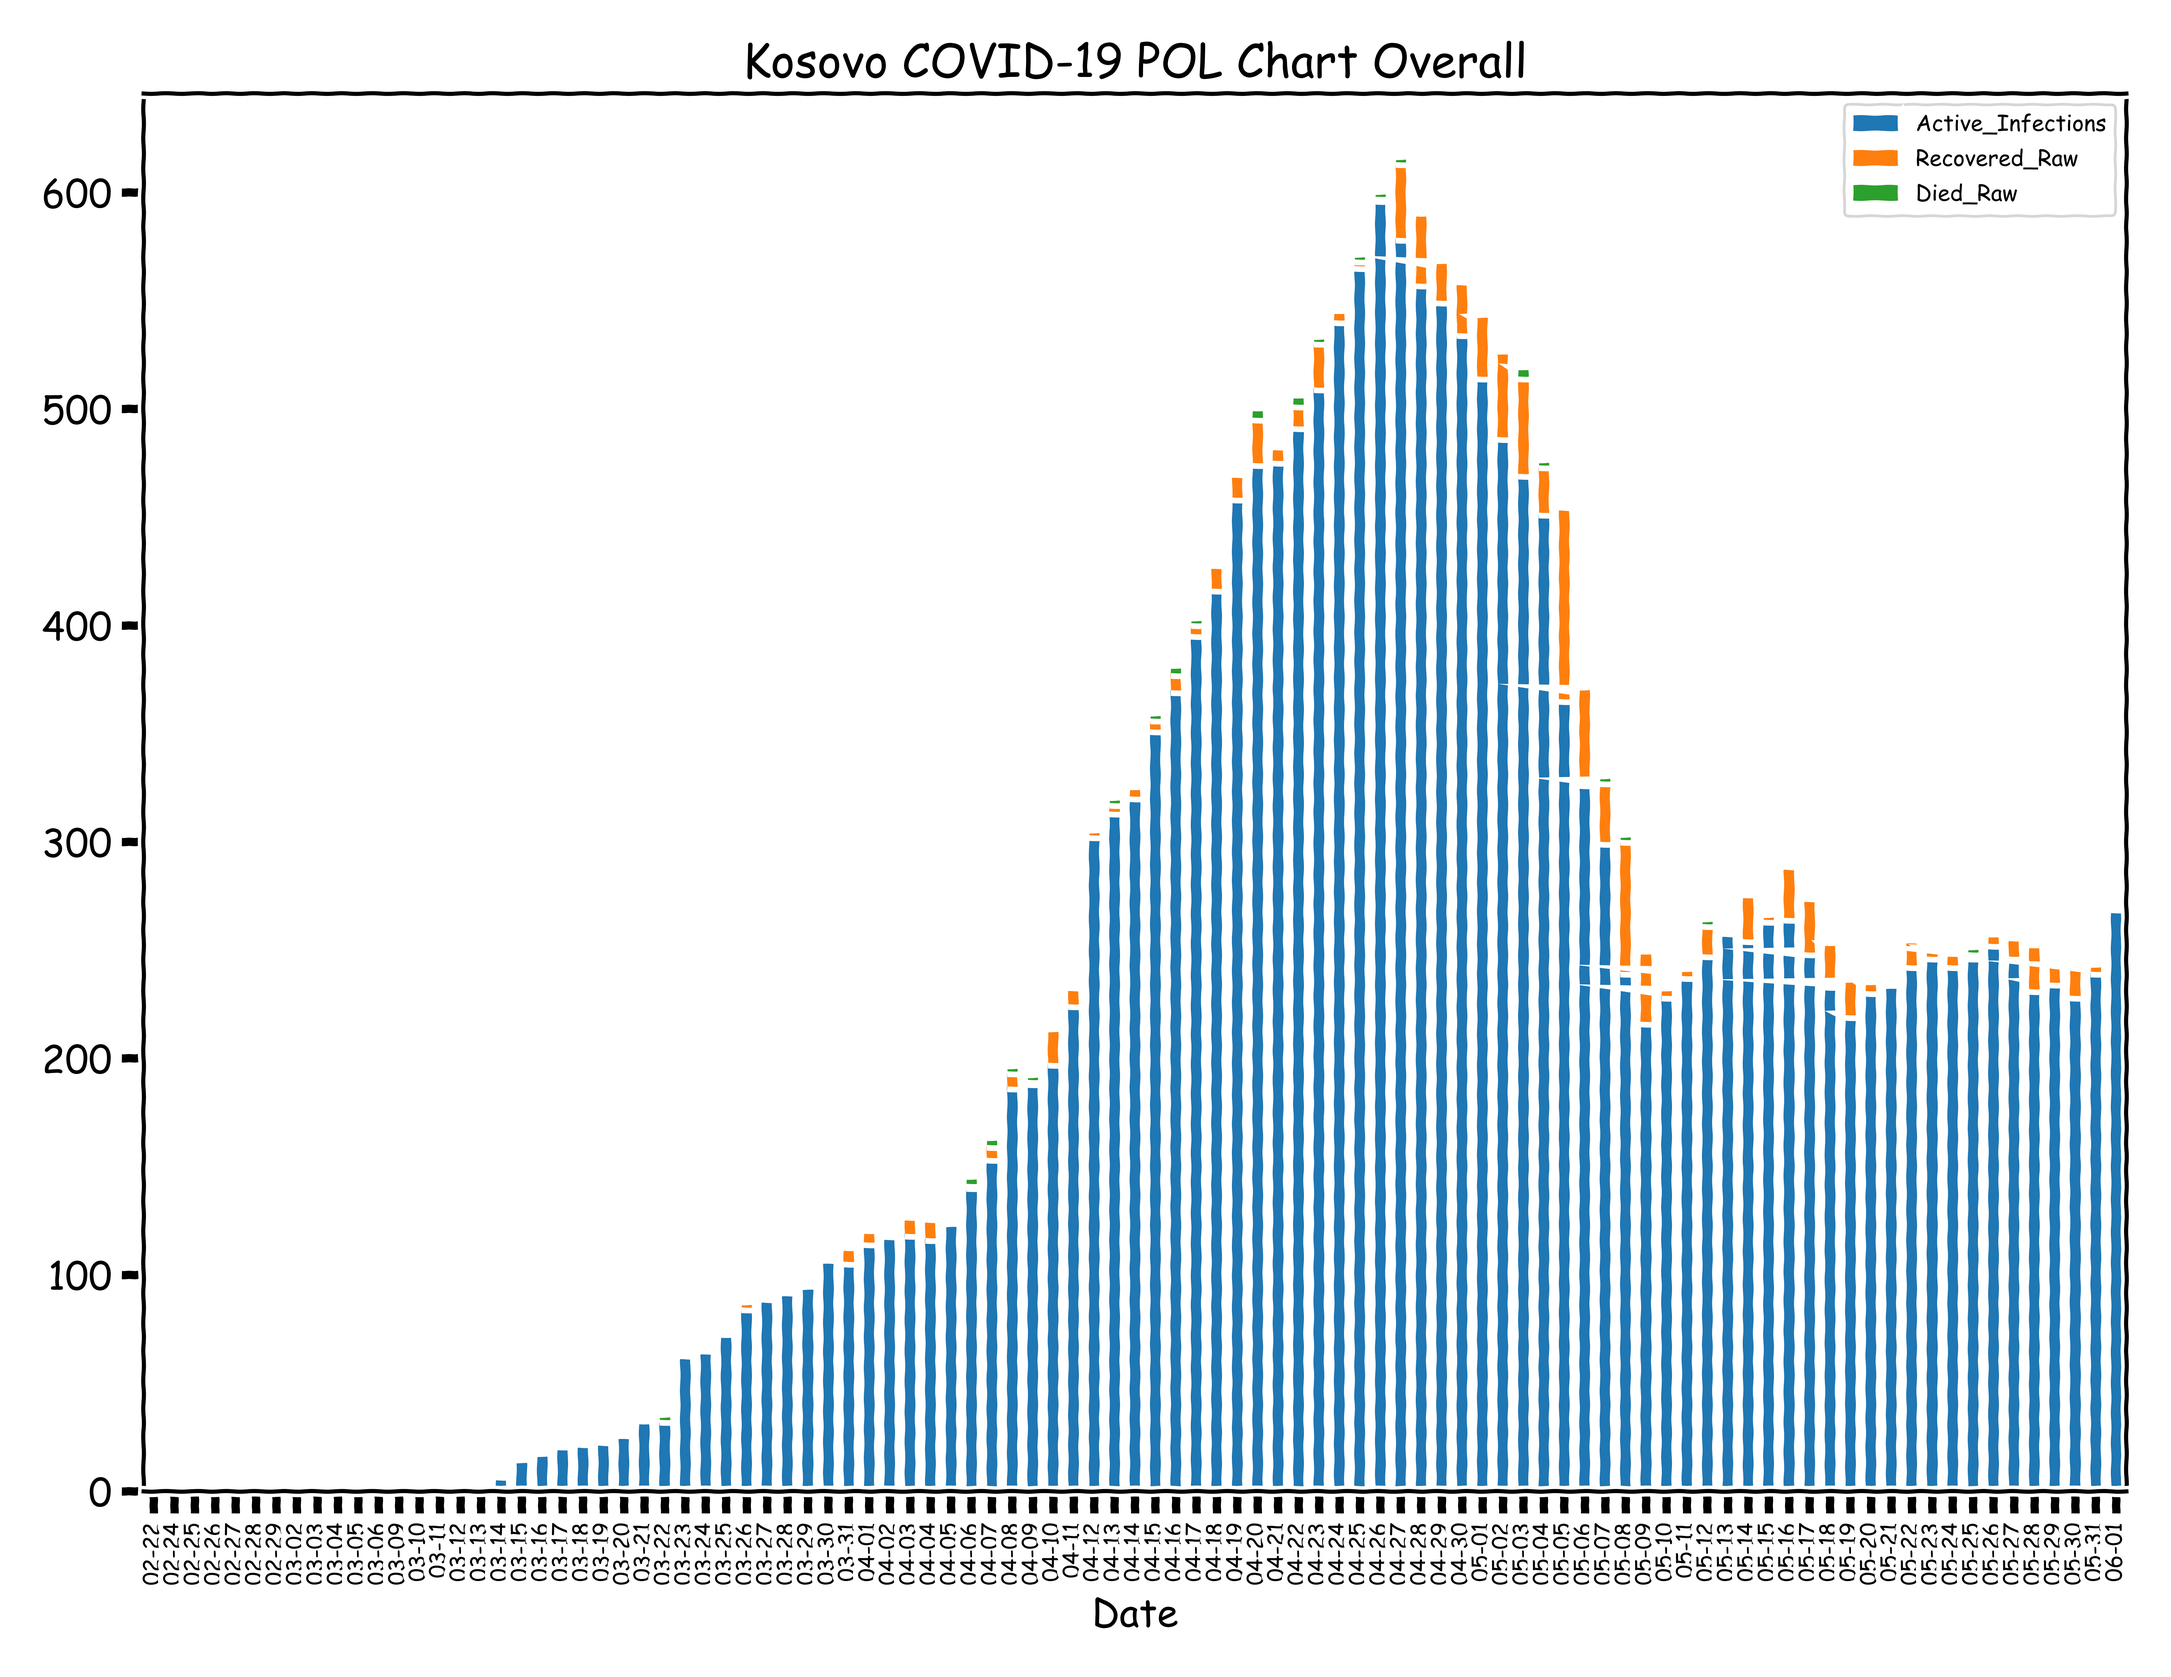
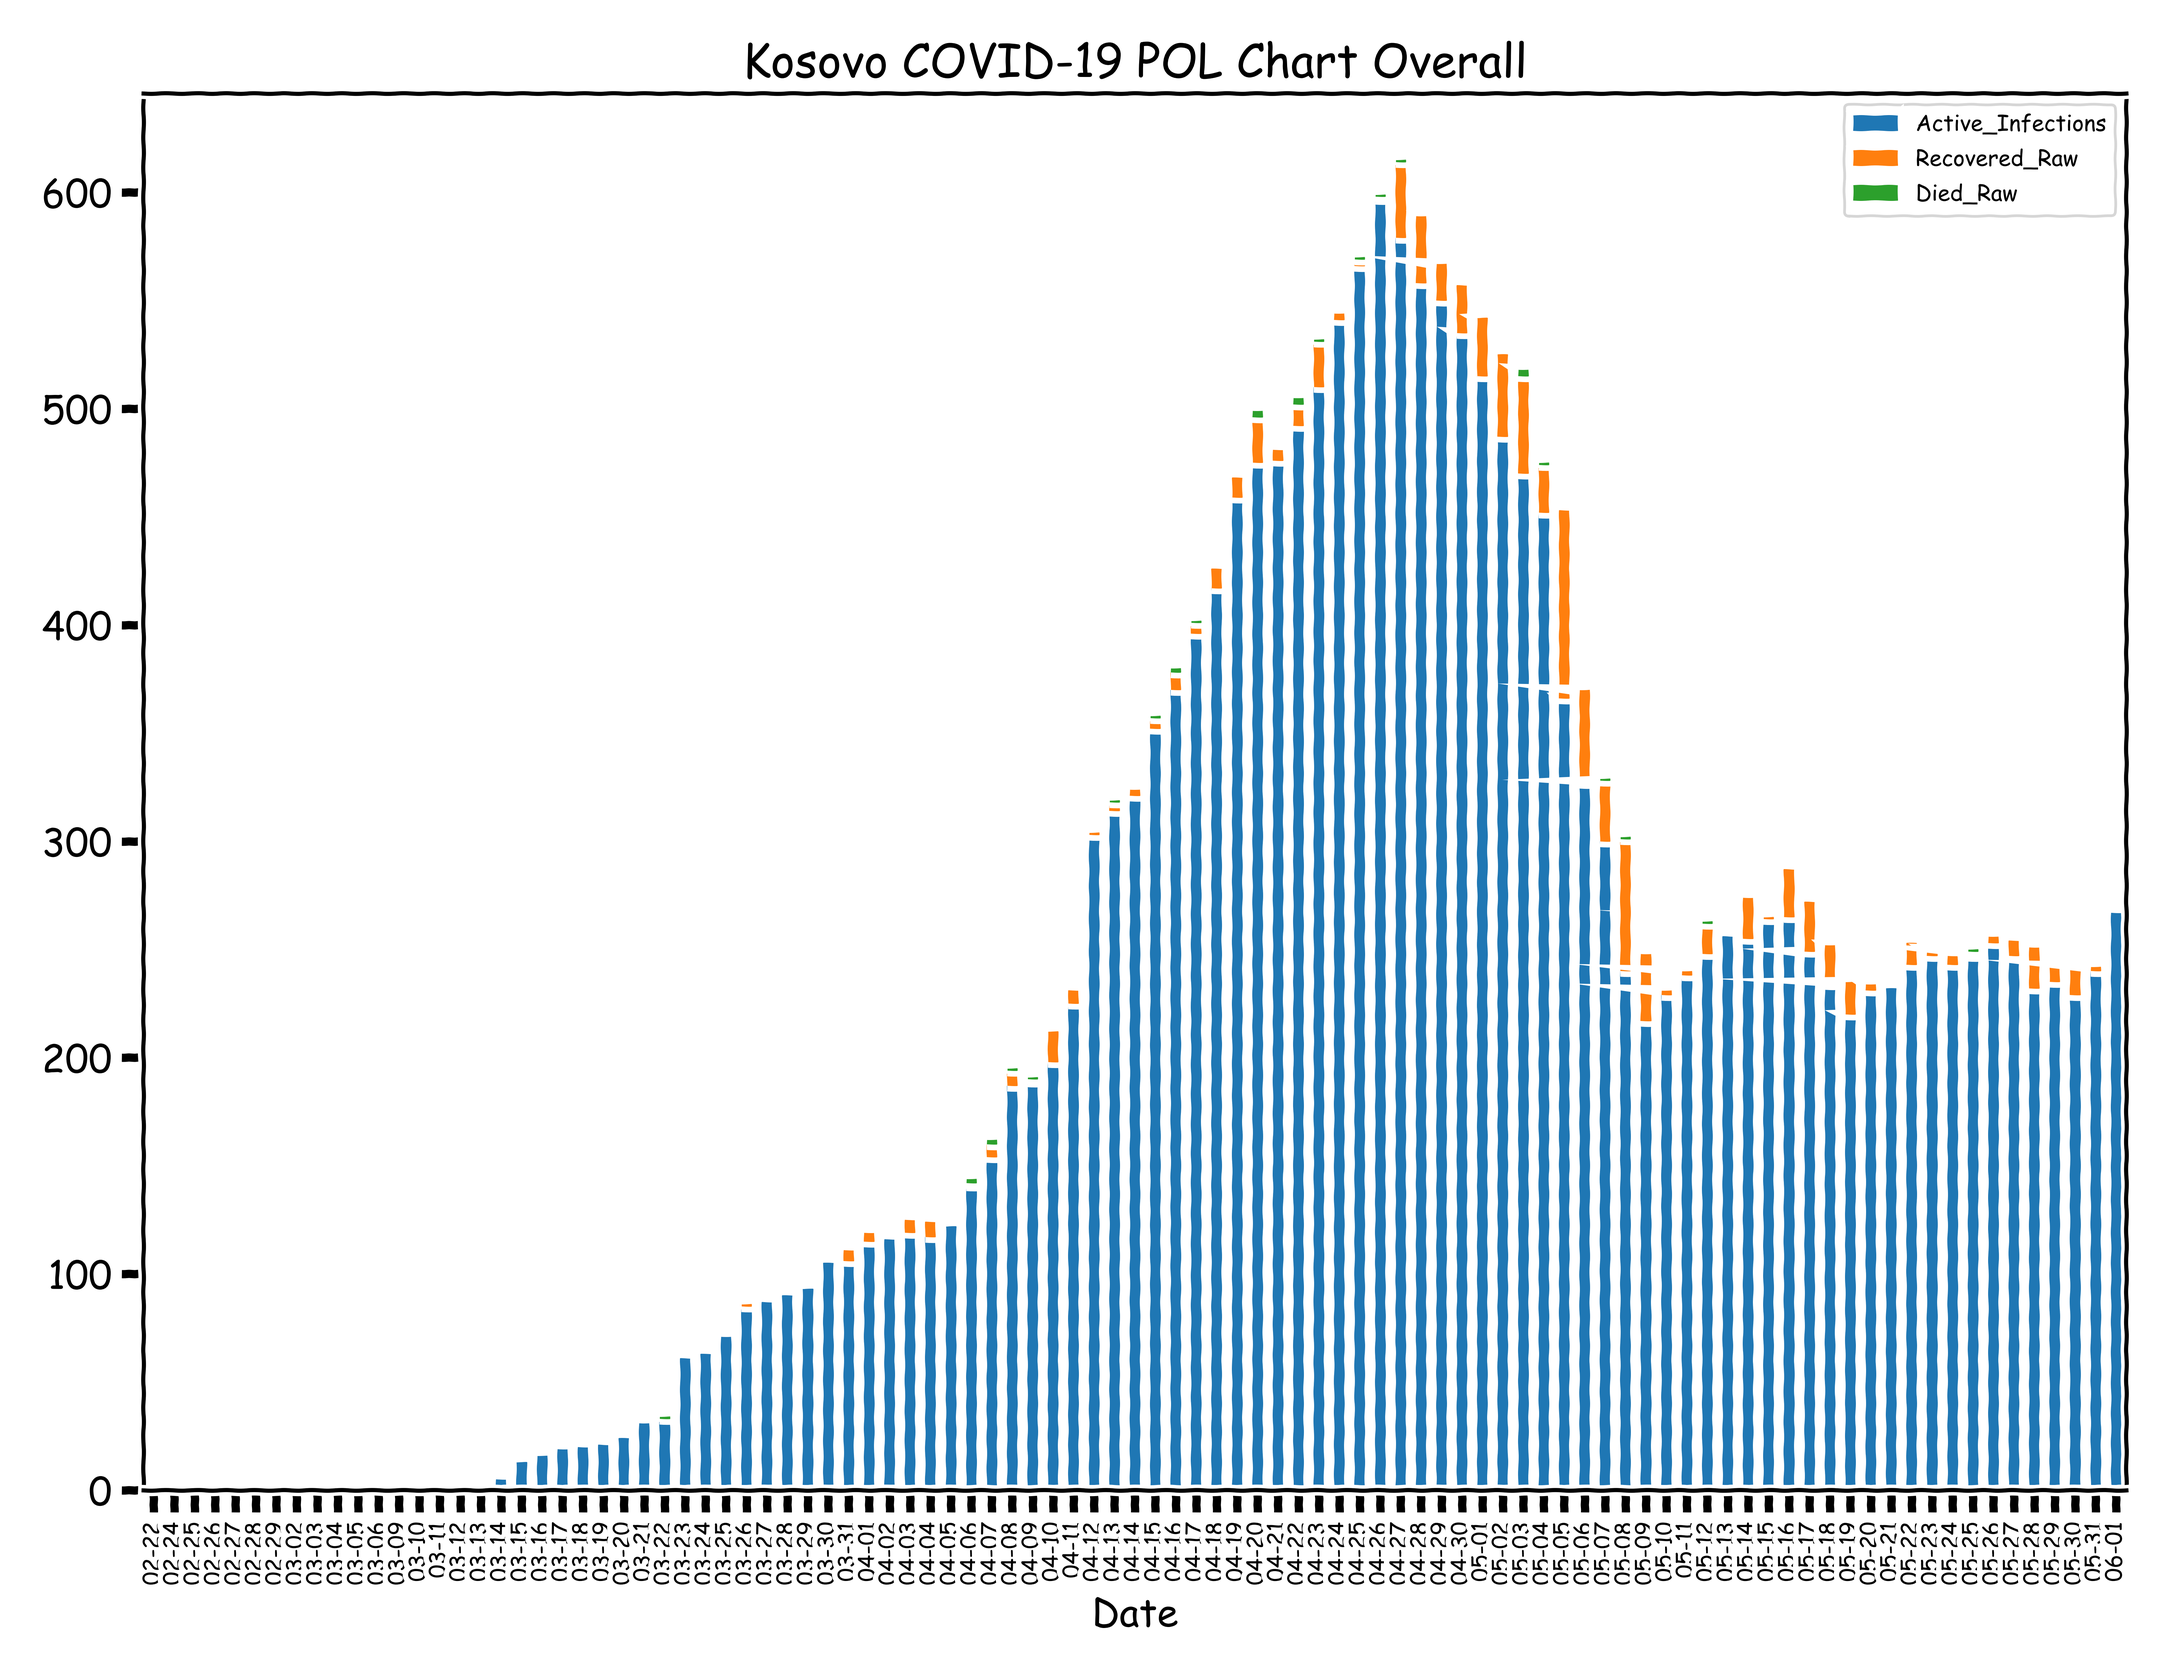
Address a memory issue. Also fixed crowding on a couple diagrams.

Changed region(s): [[0.0624, 0.9041, 0.9676, 0.9353]]

diff --git a/covid.py b/covid.py
@@ -92,6 +92,7 @@ with plt.xkcd():
     deltaFig.legend(fontsize='xx-small')
     deltaFig.figure.tight_layout()
     deltaFig.figure.savefig('Kosovo COVID-19 Cases 2D Mean -All Days Plot.png', dpi=600)
+    plt.close('all')
 
     CPDelta_df = COVID_Raw[['Hospitalizations_Raw']]
     deltaFig = CPDelta_df.last('14D').plot(title='Kosovo COVID-19 Hospitalizations -L14 Days')
@@ -124,6 +125,7 @@ with plt.xkcd():
     deltaFig.legend(fontsize='xx-small', loc='upper left')
     deltaFig.figure.tight_layout()
     deltaFig.figure.savefig('Kosovo COVID-19 Active Infections -ALL.png', dpi=600)
+    plt.close('all')
 
     CPDelta_df = COVID_Raw[['Active_Infections']].last('14D')
     deltaFig = CPDelta_df.plot(title='Kosovo Active Infections -L14 Days')
@@ -165,6 +167,7 @@ with plt.xkcd():
     deltaFig.minorticks_off()
     deltaFig.figure.tight_layout()
     deltaFig.figure.savefig('Kosovo COVID-19 Positive Cases -Last 14 Days Bar.png', dpi=600)
+    plt.close('all)')
 
     CPDelta_df = COVID_Raw[['Positive_Raw']]
     ticks = CPDelta_df.index.strftime('%m-%d').values
@@ -205,9 +208,9 @@ with plt.xkcd():
     ticks = CPDelta_df.index.strftime('%m-%d').values
     deltaFig = CPDelta_df.plot.bar(stacked=True, title='Kosovo COVID-19 POL Chart Overall')
     deltaFig.legend(fontsize='xx-small')
-    deltaFig.set_xticklabels(ticks, fontsize=8)
+    deltaFig.set_xticklabels(ticks, fontsize='xx-small')
     deltaFig.minorticks_off()
-    deltaFig.figure.set_size_inches(11, 8.5)
+    deltaFig.figure.set_size_inches(14, 8.5)
     deltaFig.figure.tight_layout()
     deltaFig.figure.savefig('Kosovo COVID-19 Cases Overall POL Stacked Bar.png', dpi=600)
 
@@ -215,9 +218,8 @@ with plt.xkcd():
     ticks = CPDelta_df.index.strftime('%m-%d').values
     deltaFig = CPDelta_df.plot.bar(stacked=True, title='Kosovo COVID-19 POL Chart Overall')
     deltaFig.legend(fontsize='xx-small')
-    deltaFig.set_xticklabels(ticks, fontsize=8)
-    deltaFig.minorticks_off()
-    deltaFig.figure.set_size_inches(11, 8.5)
+    deltaFig.set_xticklabels(ticks, fontsize='xx-small')
+    deltaFig.figure.set_size_inches(14, 8.5)
     deltaFig.figure.tight_layout()
     deltaFig.figure.savefig('Kosovo COVID-19 Cases Overall POL_Cum Stacked Bar.png', dpi=600)
 
@@ -228,3 +230,4 @@ with plt.xkcd():
     deltaFig.legend(fontsize='xx-small')
     deltaFig.figure.tight_layout()
     deltaFig.figure.savefig('Kosovo COVID-19 Cases wMean -All Days Plot.png', dpi=600)
+    plt.close('all')
